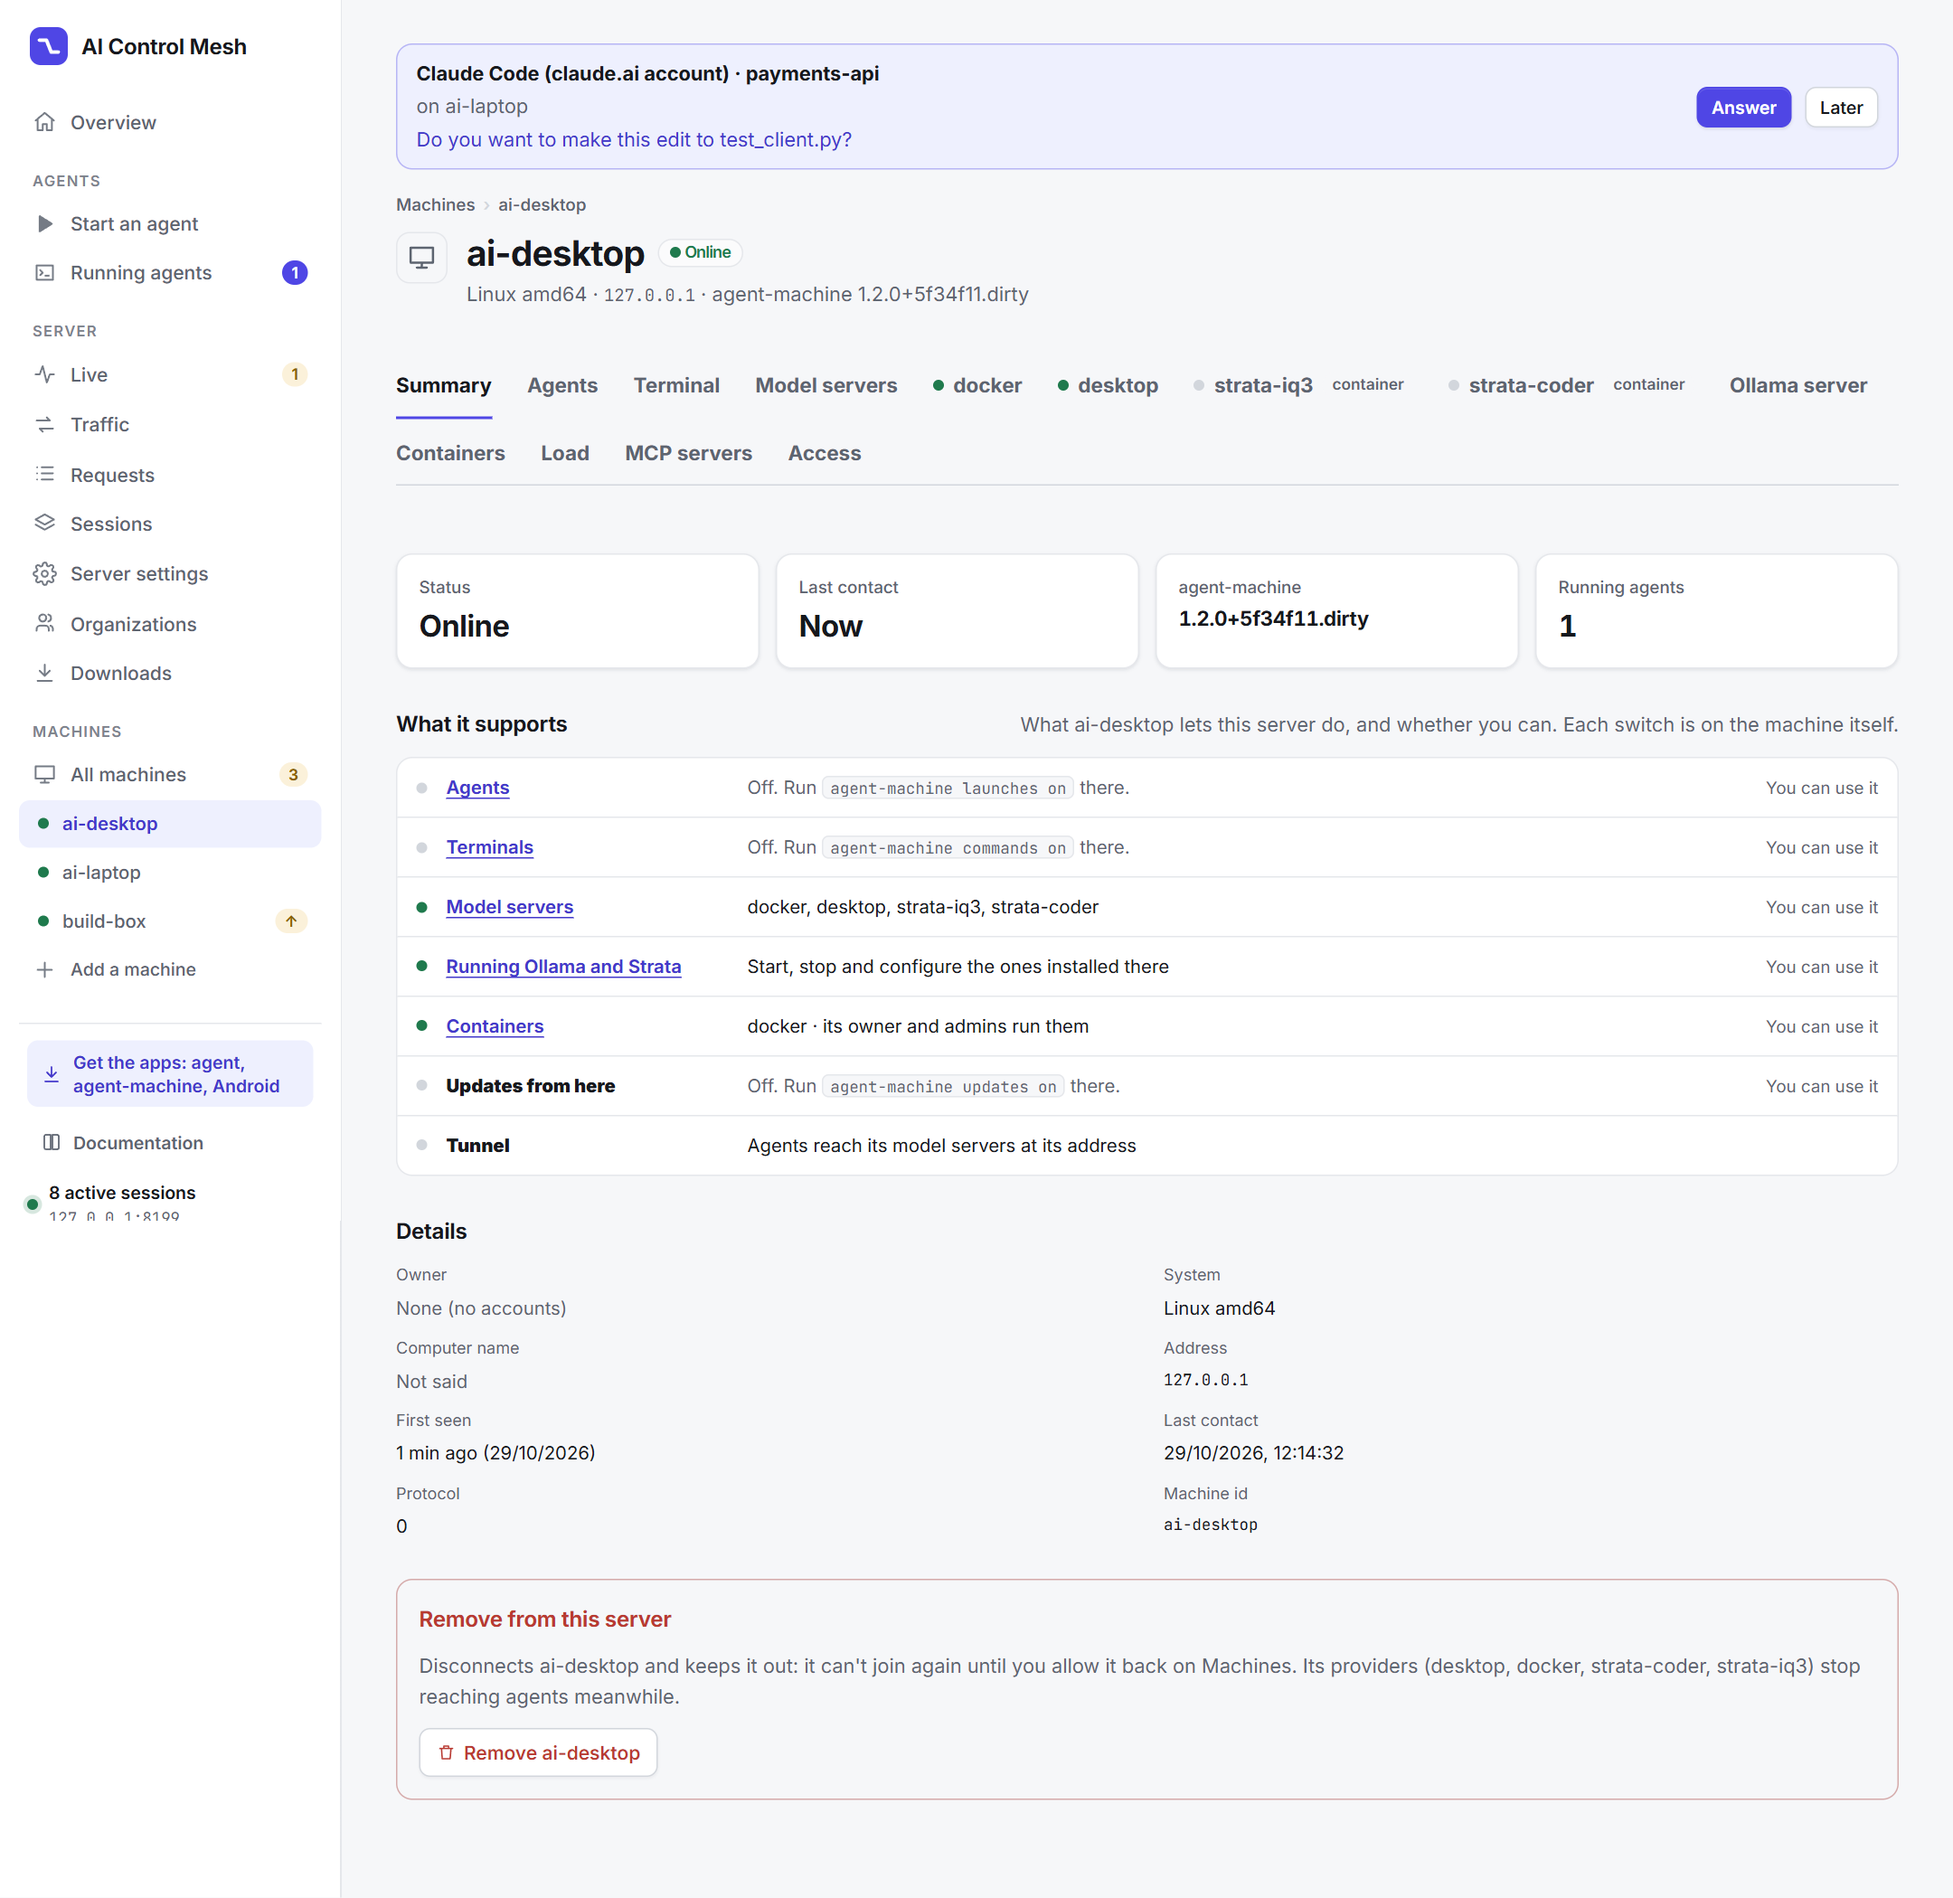
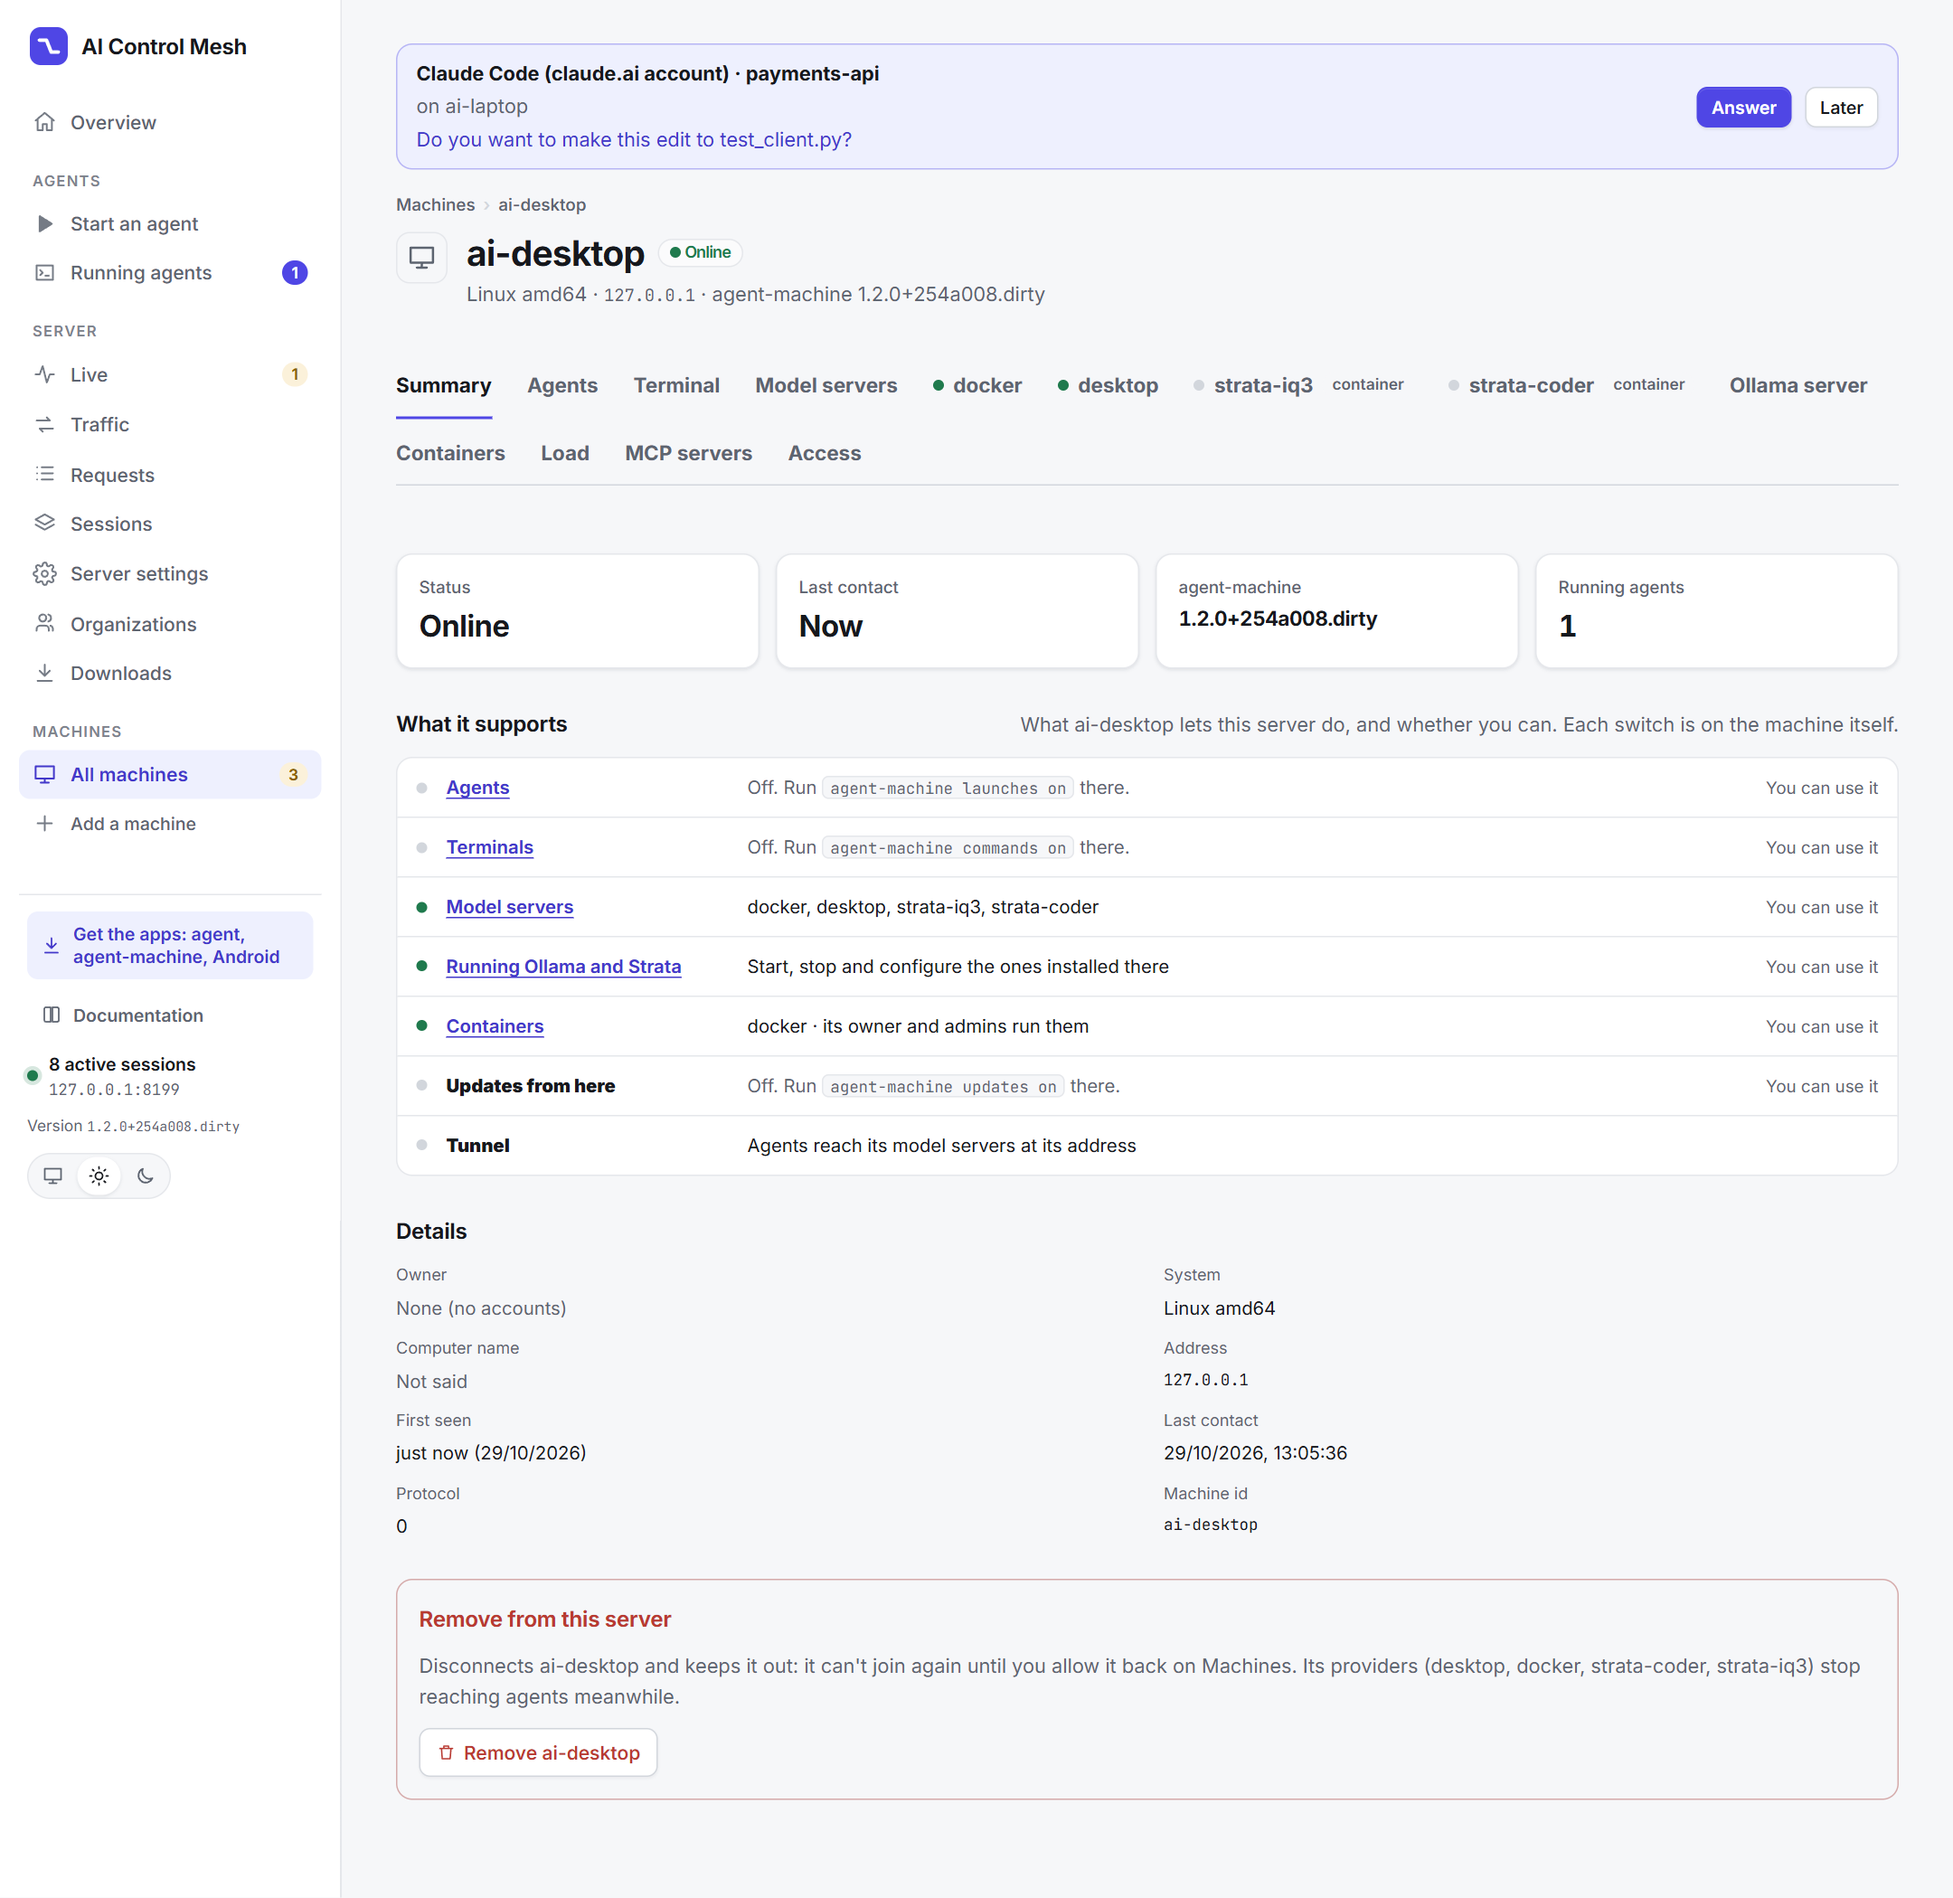
Move machine browsing into a searchable fleet list

diff --git a/ui/src/App.tsx b/ui/src/App.tsx
@@ -17,8 +17,7 @@ import { SettingsPage } from "./pages/Settings";
 import { TerminalsPage } from "./pages/Terminals";
 import { PairPage } from "./pages/Pair";
 import { MachinesPage } from "./pages/Machines";
-import { MachinePage, machinePath } from "./pages/Machine";
-import { StateDot } from "./components/ProviderState";
+import { MachinePage } from "./pages/Machine";
 import { DownloadsPage } from "./pages/Downloads";
 import { DocsPage } from "./pages/Docs";
 import { Icon } from "./components/Icon";
@@ -137,14 +136,6 @@ function Shell({ identity }: { identity: Identity | null }) {
                   <RailLink key={item.to} item={item} counts={counts} waiting={item.to === "/terminals" ? waiting : 0} />
                 ),
               )}
-              {part.id === "machines" &&
-                (machines.data?.machines ?? []).map((machine) => (
-                  <NavLink key={machine.id} to={machinePath(machine.id)} className="nav-machine">
-                    <StateDot tone={machine.connected ? "good" : "idle"} />
-                    <span className="nav-label">{machine.name}</span>
-                    {machine.update?.available && <span className="nav-count" title="Update available">↑</span>}
-                  </NavLink>
-                ))}
               {part.id === "machines" && (
                 <Link to="/machines#add" className="nav-add">
                   <Icon name="plus" />

diff --git a/ui/src/pages/Machines.tsx b/ui/src/pages/Machines.tsx
@@ -16,7 +16,12 @@ export function MachinesPage() {
   const machines = useMachines();
   const status = useStatus();
   const { hash } = useLocation();
+  const [search, setSearch] = useState("");
   const list = machines.data?.machines ?? [];
+  const query = search.trim().toLowerCase();
+  const shown = list.filter((machine) =>
+    [machine.name, machine.id, machine.hostname, machine.address, machine.owner].some((value) => value?.toLowerCase().includes(query)),
+  );
   const online = list.filter((machine) => machine.connected);
   const server = serverAddress(status.data?.proxy_url);
 
@@ -66,8 +71,16 @@ export function MachinesPage() {
         </div>
       )}
 
+      {machines.data && list.length > 0 && (
+        <div className="filters">
+          <input type="search" value={search} onChange={(event) => setSearch(event.target.value)}
+            placeholder="Search by name, hostname, address or owner" aria-label="Search machines" />
+          <span className="subtle" role="status">{shown.length} of {list.length} machines</span>
+        </div>
+      )}
+      {machines.data && list.length > 0 && shown.length === 0 && <p className="subtle">No machines match your search.</p>}
       <div className="machine-list">
-        {list.map((machine) => (
+        {shown.map((machine) => (
           <MachineSummary key={machine.id} machine={machine} />
         ))}
       </div>

diff --git a/ui/src/navigation.ts b/ui/src/navigation.ts
@@ -7,7 +7,7 @@
  *
  * Everything about a model server (its models, settings, logs, the containers that run it,
  * the machine's load) is on its machine's page (/machines/<id>), because the machine does
- * it. The rail lists the machines themselves under Machines (App.tsx).
+ * it. All machines opens the searchable fleet list; individual machines aren't listed in the rail.
  */
 import type { IconName } from "./components/Icon";
 
@@ -75,7 +75,7 @@ export const PARTS: Part[] = [
     summary: "Computers signed in to the server. Each runs model servers agents use (Ollama, Strata, Docker, containers), managed on its page.",
     home: "/machines",
     items: [
-      { to: "/machines", label: "All machines", icon: "monitor", end: true },
+      { to: "/machines", label: "All machines", icon: "monitor" },
     ],
   },
 ];

diff --git a/AGENTS.md b/AGENTS.md
@@ -309,7 +309,7 @@ The one pytest warning (Starlette's httpx deprecation in `TestClient`) is expect
 
 - All HTTP calls and their response types live in `ui/src/api.ts`, as `api.<name>` methods or exported helpers. Keep the types in step with the Python response shapes.
 - Data comes from TanStack Query. Query keys are short arrays (`["machines"]`, `["provider", machine, provider]`, `["containers"]`, `["models"]`, `["agents"]`). After a mutation, invalidate the affected keys. Common queries are in `hooks.tsx` (`useStatus`, `useModels`, `useAgents`, ...).
-- The console has three parts, defined once in `navigation.ts`: Agents (Start an agent, Running agents), Server (Live, Traffic, Requests, Sessions, Server settings, Organizations, Downloads), Machines (All machines, then each machine, listed by App.tsx from `/api/machines`).
+- The console has three parts, defined once in `navigation.ts`: Agents (Start an agent, Running agents), Server (Live, Traffic, Requests, Sessions, Server settings, Organizations, Downloads), Machines (All machines opens a searchable list, and Add a machine; individual machines aren't listed in the rail).
   - **Everything about a model server is on its machine's page**, `pages/Machine.tsx` at `/machines/:id/:section`, a tab per function: Summary (no section: what it supports and core stats, removing it), `agents`, `terminal`, `model-servers`, one tab per model server (`ollama-11434`, from `machineProviders()` in `api.ts`: what the machine reports plus its backends), `ollama` (the installed Ollama's settings), `containers`, `load`, `mcp` (`pages/MachineMcp.tsx`, the MCP servers it shares), `access` (`pages/MachineAccess.tsx`, for those who manage it). Show a tab's function by what `machine.you` says (each feature, `manage`), not by role. The model server views take `{target: ProviderRef, label, backend, manageable}`: `OllamaProvider` (Models.tsx), `StrataProvider` (Strata.tsx), `DockerProvider` (Docker.tsx). The machine-wide ones take the machine: `MachineOllama` (OllamaServer.tsx), `MachineContainers({machine})` (Containers.tsx), `MachineLoad({machine, ollama})` (Hosts.tsx). Don't add global pages for providers; the old addresses (`/models`, `/strata`, ...) redirect to `/machines`.
   - A model server that isn't a backend yet is managed the same way, with **Add as a provider** (admins) at its top. Say so in UI text: local providers come from machines, hosted APIs are the exception (Server settings adds those).
   - **Downloads** (`/get`) is public: App.tsx renders it without the console when signed out, and the sign-in page and the rail link to it. The SPA must not use paths under `/downloads/` or `/android`: the server serves files there.

diff --git a/.context/console.md b/.context/console.md
@@ -27,10 +27,12 @@ flowchart TB
 
 - `main.tsx`: queries retry once, never on a 401; any 401 invalidates `["auth"]`, which drops back to sign-in.
 - `App.tsx`: the auth gate reads `window.location.pathname`, not the router. `/pair` is a Shell route, so it needs a sign-in when accounts are on.
-- `Shell`: the rail is built from `PARTS` plus one entry per connected machine (`["machines"]`). It shows counts (in-flight requests, terminals, machines, agents waiting for their user), the version, the user and the theme picker. Below 900 px it becomes a top bar with a slide-in menu. Opening the menu pushes a history entry, so Back (Android's included) closes it.
+- `Shell`: the rail is built from `PARTS`, with All machines and Add a machine rather than individual machine entries. It shows counts (in-flight requests, terminals, machines, agents waiting for their user), the version, the user and the theme picker. Below 900 px it becomes a top bar with a slide-in menu. Opening the menu pushes a history entry, so Back (Android's included) closes it.
 - Old addresses (`/models`, `/strata`, `/docker`, `/containers`, ...) redirect to `/machines`.
 
-`navigation.ts` `PARTS`: **Agents** (`/agents` Start an agent, `/terminals` Running agents), **Server** (`/live`, `/traffic`, `/requests`, `/sessions`, `/settings`, `/organization`, `/get`), **Machines** (`/machines`, then the machines themselves). `partFor()` drives `PartTag`, the breadcrumb above each `<h1>`.
+`navigation.ts` `PARTS`: **Agents** (`/agents` Start an agent, `/terminals` Running agents), **Server** (`/live`, `/traffic`, `/requests`, `/sessions`, `/settings`, `/organization`, `/get`), **Machines** (`/machines`, active on individual machine pages too). `partFor()` drives `PartTag`, the breadcrumb above each `<h1>`.
+
+`MachinesPage` lists machines with a case-insensitive search over name, id, hostname, address and owner. Searching only filters the cards; fleet totals and the add/removed-machine controls stay unchanged.
 
 ## Data layer
 

diff --git a/docs/console.md b/docs/console.md
@@ -29,7 +29,7 @@ The rail on the left has three parts, in the order a request flows:
 | --- | --- | --- |
 | **1 Agents** | Start an agent, Running agents | Start a coding agent through the server, then watch it and type into it from any device. |
 | **2 Server** | Live, Traffic, Requests, Sessions, Server settings, Organizations, Downloads | The hub: every request agents make passes through it and is recorded. |
-| **3 Machines** | All machines, then one entry per machine | Computers signed in to the server. They run the model servers and MCP servers agents use, and agents themselves. |
+| **3 Machines** | All machines, Add a machine | Open **All machines** to search and select a computer. Individual machines aren't listed in the rail. |
 
 - The small label above each page's title is its breadcrumb ("Machines › build-box").
 - The footer of the rail links to **Downloads** and **Documentation**, and shows how many sessions are open, the server's address and its version.
@@ -222,6 +222,7 @@ If nothing has been built (`scripts/build-dist`), it says **Nothing built yet**.
 
 `/machines` lists the fleet: each machine's state (connected or not), owner, system, its model servers, the agents installed on it, whether it takes launches, and whether it needs an update.
 
+- **Search machines**: filter by name, machine id, hostname, address or owner. Search ignores case; clearing it shows the whole list again. Open a machine's name or **Open** to manage it.
 - **Add a machine**: the commands to install and sign in agent-machine on Linux or macOS and on Windows (PowerShell). **Add another machine** shows them again when the fleet isn't empty.
 - **Or run a sandbox machine in a container**: the Docker or Podman command for the sandbox image, which runs agents in a container (see [Machines](machines.md#a-sandbox-machine-in-docker)).
 - **Removed**: machines taken off the server, which you (their owner or an admin) can allow back.
